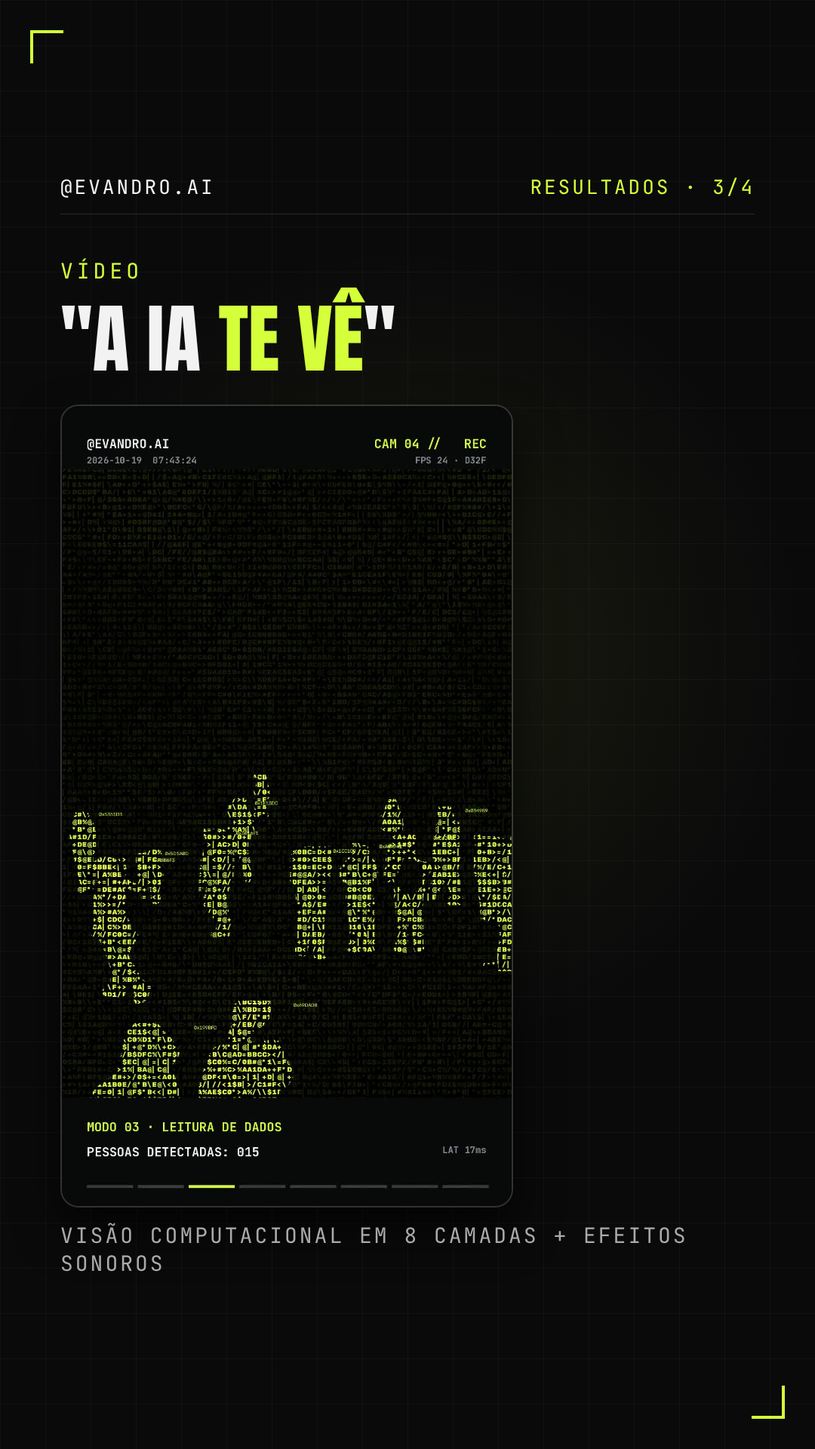
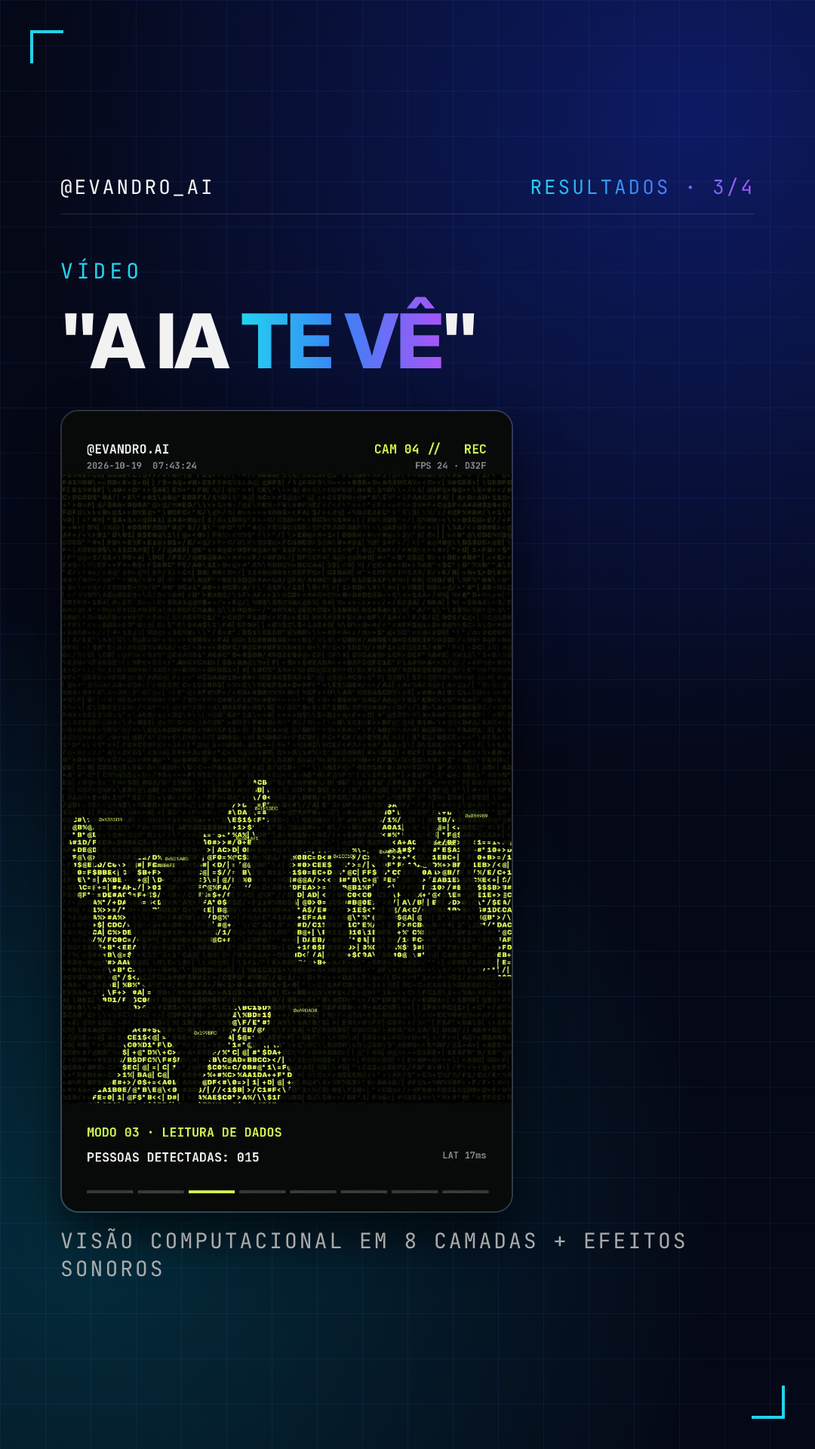
Identidade nova (estilo futurista): landing, destaques e bio
Claude-Session: https://claude.ai/code/session_01FADPPXD1YfGLfkBSdMraC8

diff --git a/index.html b/index.html
@@ -3,217 +3,189 @@
 <head>
 <meta charset="utf-8">
 <meta name="viewport" content="width=device-width,initial-scale=1">
-<meta name="theme-color" content="#0A0A0B">
-<title>Evandro Dias · IA para negócios</title>
-<meta name="description" content="Atendente de IA no WhatsApp, conteúdo e sistemas com IA para negócios locais. Demonstração grátis e materiais gratuitos.">
-<meta property="og:title" content="Evandro Dias · IA que atende, vende e cria conteúdo">
-<meta property="og:description" content="Coloque IA para trabalhar no seu negócio. Demonstração grátis antes de pagar.">
+<meta name="theme-color" content="#050816">
+<title>Evandro Dias · Desenvolvedor de IA</title>
+<meta name="description" content="Agentes de IA no WhatsApp, automações e sistemas para negócios. Demonstração grátis com o seu negócio.">
+<meta property="og:title" content="Evandro Dias · Desenvolvedor de IA">
+<meta property="og:description" content="Seu WhatsApp respondendo cliente em segundos, até de madrugada.">
 <meta property="og:image" content="assets/evandro.jpg">
 <style>
-@font-face{font-family:A;src:url(assets/Anton.ttf);font-display:swap}
-@font-face{font-family:M;src:url(assets/Mono.ttf);font-display:swap}
 @font-face{font-family:I;src:url(assets/Inter.ttf);font-display:swap}
-@font-face{font-family:S;src:url(assets/Serif.woff2);font-display:swap}
-:root{--bg:#0A0A0B;--panel:#131316;--line:#ffffff1c;--g:#D4FF3A;--t:#F2F2F2;--mut:#9a9a9a;--r:#FF4D3D}
+@font-face{font-family:M;src:url(assets/Mono.ttf);font-display:swap}
+:root{--bg:#050816;--panel:#0b1226;--line:#1e3a8a55;--c:#22d3ee;--b:#3b82f6;--p:#a855f7;--t:#e8f0ff;--mut:#94a3b8}
 *{box-sizing:border-box;margin:0;padding:0}
 html{scroll-behavior:smooth}
-body{background:var(--bg);color:var(--t);font-family:I,system-ui,sans-serif;line-height:1.55;
- background-image:linear-gradient(#ffffff07 1px,transparent 1px),linear-gradient(90deg,#ffffff07 1px,transparent 1px);background-size:44px 44px}
-a{color:inherit}
-.w{max-width:620px;margin:0 auto;padding:0 18px}
-.g{color:var(--g)}.r{color:var(--r)}.S{font-family:S;font-style:italic;font-weight:400;text-transform:none}
-.k{font-family:M;font-size:12px;letter-spacing:3px;color:var(--g);text-transform:uppercase}
-.num{font-family:M;font-size:12px;color:var(--mut);letter-spacing:2px}
-h1,h2,h3{font-family:A;font-weight:400;text-transform:uppercase;line-height:.95}
-h1{font-size:clamp(40px,11vw,66px)}h2{font-size:clamp(32px,8.5vw,46px);margin:10px 0 18px}h3{font-size:26px}
-p.l{color:#cfcfcf;font-size:17px}
-header.top{position:sticky;top:0;z-index:9;background:#0A0A0Bdd;backdrop-filter:blur(10px);border-bottom:1px solid var(--line)}
-header.top .w{display:flex;justify-content:space-between;align-items:center;padding:12px 18px}
-header.top b{font-family:M;font-size:12px;letter-spacing:3px}
-.mini{background:var(--g);color:#000;font-family:A;font-size:15px;padding:8px 14px;border-radius:10px;text-decoration:none;text-transform:uppercase}
-.marq{overflow:hidden;border-bottom:1px solid var(--line);white-space:nowrap}
-.marq div{display:inline-block;padding:12px 0;animation:mq 26s linear infinite;font-family:M;font-size:12px;letter-spacing:2px;color:#bbb}
-.marq span{margin:0 18px}.marq span::before{content:"◆ ";color:var(--g)}
-@keyframes mq{to{transform:translateX(-50%)}}
-@media (prefers-reduced-motion:reduce){.marq div{animation:none}}
-section{padding:52px 0;border-bottom:1px solid var(--line)}
-.hero{padding:40px 0 48px}
-.av{width:96px;height:96px;border-radius:50%;border:3px solid var(--g);object-fit:cover;box-shadow:0 0 40px rgba(212,255,58,.25)}
-.who{display:flex;gap:14px;align-items:center;margin-bottom:22px}
-.who b{display:block}.who span{color:var(--mut);font-size:14px}
-.btn{display:flex;align-items:center;justify-content:center;gap:10px;width:100%;background:var(--g);color:#0A0A0B;font-family:A;font-size:21px;letter-spacing:.5px;text-transform:uppercase;padding:17px 20px;border-radius:14px;text-decoration:none;margin-top:14px;transition:transform .15s}
-.btn:active{transform:scale(.98)}
-.btn.o{background:transparent;color:var(--t);border:1.5px solid #ffffff33;font-size:18px}
-.note{text-align:center;font-family:M;font-size:11px;color:var(--mut);letter-spacing:1px;margin-top:10px}
-ul.x,ul.c{list-style:none;margin-top:8px}
-ul.x li,ul.c li{padding:13px 0 13px 34px;border-bottom:1px solid var(--line);position:relative;font-size:16px}
-ul.x li::before{content:"✕";position:absolute;left:4px;color:var(--r);font-family:M}
-ul.c li::before{content:"✓";position:absolute;left:4px;color:var(--g);font-family:M}
-.quote{border-left:3px solid var(--g);padding:6px 0 6px 18px;margin:22px 0;font-size:22px}
-.pill{background:var(--panel);border:1px solid var(--line);border-radius:20px;padding:24px;margin-top:14px}
-.pill .tag{font-family:M;font-size:12px;letter-spacing:2px;color:var(--g)}
-.pill h3{margin:8px 0 10px}
-.pill p{color:#bdbdbd}
-.price{display:inline-block;margin-top:14px;font-family:M;font-size:13px;color:#0A0A0B;background:var(--g);padding:5px 11px;border-radius:6px}
-.obj{background:var(--panel);border:1px solid var(--line);border-radius:18px;padding:20px;margin-top:12px}
-.obj b{display:block;font-size:18px;margin-bottom:6px}.obj b::before{content:"“";color:var(--g);font-family:A;margin-right:4px}
-.obj p{color:#bdbdbd}
-.steps li{list-style:none;display:flex;gap:16px;padding:16px 0;border-bottom:1px solid var(--line)}
-.steps b.n{font-family:A;font-size:30px;color:var(--g);min-width:38px;line-height:1}
-.shots{display:flex;gap:10px;overflow-x:auto;scroll-snap-type:x mandatory;padding-bottom:6px}
-.shots img{height:280px;border-radius:14px;border:1px solid var(--line);scroll-snap-align:start}
-.card{background:var(--panel);border:1px solid var(--line);border-radius:16px;padding:16px;margin-top:10px;display:flex;gap:14px;align-items:center;text-decoration:none}
-.card .ic{flex:0 0 46px;height:46px;border-radius:12px;background:#1d1d22;display:flex;align-items:center;justify-content:center;font-size:22px}
-.card b{display:block;font-size:16px}.card span{color:var(--mut);font-size:13px}
-.card .go{margin-left:auto;font-family:M;color:var(--g)}
-.offer{background:var(--panel);border:2px solid var(--g);border-radius:24px;padding:30px 22px;text-align:center}
-.offer .big{font-family:A;font-size:64px;line-height:1;margin:8px 0}
-.ab{display:grid;grid-template-columns:1fr 1fr;gap:10px;margin-top:16px}
-.ab div{border-radius:16px;padding:18px;border:1px solid var(--line)}
-.ab .a{background:#1a1112;border-color:#FF4D3D55}.ab .b{background:#141a0c;border-color:#D4FF3A55}
-.ab h3{font-size:22px;margin-bottom:8px}.ab p{font-size:14px;color:#ccc}
-details{border-bottom:1px solid var(--line);padding:16px 0}
+body{background:var(--bg);color:var(--t);font-family:I,system-ui,sans-serif;line-height:1.55;overflow-x:hidden}
+a{color:inherit;text-decoration:none}
+.glow{position:fixed;inset:0;pointer-events:none;background:radial-gradient(circle at 85% 5%,#1e40ff44,transparent 40%),radial-gradient(circle at 5% 60%,#00e5ff22,transparent 40%),radial-gradient(circle at 90% 95%,#a855f722,transparent 40%);z-index:0}
+.grid{position:fixed;inset:0;pointer-events:none;background-image:linear-gradient(#3b82f614 1px,transparent 1px),linear-gradient(90deg,#3b82f614 1px,transparent 1px);background-size:34px 34px;z-index:0}
+.w{position:relative;z-index:1;max-width:1040px;margin:0 auto;padding:0 20px}
+.grad{background:linear-gradient(90deg,var(--c),var(--b),var(--p));-webkit-background-clip:text;background-clip:text;color:transparent}
+.lab{font-family:M;font-size:13px;color:var(--c)}
+h1{font-size:clamp(38px,8vw,72px);font-weight:800;line-height:1.04;letter-spacing:-1.5px}
+h2{font-size:clamp(28px,5.5vw,44px);font-weight:800;line-height:1.08;letter-spacing:-1px;margin:8px 0 18px}
+h3{font-size:19px;font-weight:700}
+p.l{color:var(--mut);font-size:17px;max-width:600px}
+nav{position:sticky;top:0;z-index:5;background:#050816cc;backdrop-filter:blur(12px);border-bottom:1px solid var(--line)}
+nav .w{display:flex;justify-content:space-between;align-items:center;padding:14px 20px}
+nav b{font-family:M;font-size:14px;color:#7dd3fc;font-weight:400}
+nav .links{display:flex;gap:22px;font-size:14px;color:var(--mut)}
+nav .links a:hover{color:var(--t)}
+@media(max-width:720px){nav .links{display:none}}
+.cta-sm{font-family:M;font-size:12px;color:#fff;padding:8px 14px;border-radius:10px;background:linear-gradient(90deg,#06b6d4,#3b82f6)}
+section{padding:72px 0;border-bottom:1px solid var(--line)}
+.hero{padding:64px 0 72px;display:grid;grid-template-columns:1.3fr .7fr;gap:40px;align-items:center}
+@media(max-width:820px){.hero{grid-template-columns:1fr;padding-top:40px}.hero .pic{order:-1}}
+.av{width:100%;max-width:300px;aspect-ratio:1;border-radius:28px;object-fit:cover;border:2px solid var(--c);box-shadow:0 0 60px #22d3ee55}
+@media(max-width:820px){.av{max-width:110px;border-radius:24px}}
+.tags{display:flex;flex-wrap:wrap;gap:8px;margin:22px 0}
+.tags b{font-family:M;font-weight:400;font-size:12px;padding:7px 12px;border:1px solid #22d3ee55;border-radius:999px;color:#a5f3fc;background:#0b1a33aa}
+.btns{display:flex;gap:12px;flex-wrap:wrap;margin-top:8px}
+.btn{display:inline-flex;align-items:center;justify-content:center;gap:8px;padding:16px 26px;border-radius:14px;font-weight:700;font-size:16px;transition:transform .15s,box-shadow .15s}
+.btn:hover{transform:translateY(-2px)}
+.b1{background:linear-gradient(90deg,#06b6d4,#3b82f6);color:#fff;box-shadow:0 12px 40px #3b82f655}
+.b2{border:1px solid #334155;color:#cbd5e1}
+@media(max-width:560px){.btn{width:100%}}
+.stats{display:grid;grid-template-columns:repeat(4,1fr);gap:12px;margin-top:34px}
+@media(max-width:720px){.stats{grid-template-columns:1fr 1fr}}
+.stat{background:#0b1226cc;border:1px solid var(--line);border-radius:16px;padding:18px;text-align:center}
+.stat b{display:block;font-size:28px;font-weight:800}
+.stat span{font-family:M;font-size:11px;color:#64748b;letter-spacing:1px}
+.cards{display:grid;grid-template-columns:repeat(3,1fr);gap:14px}
+@media(max-width:820px){.cards{grid-template-columns:1fr}}
+.card{background:linear-gradient(180deg,#0b1226,#081022);border:1px solid var(--line);border-radius:20px;padding:24px;position:relative;overflow:hidden}
+.card::after{content:"";position:absolute;inset:0;border-radius:20px;padding:1px;background:linear-gradient(135deg,#22d3ee55,transparent 40%,#a855f755);-webkit-mask:linear-gradient(#000 0 0) content-box,linear-gradient(#000 0 0);-webkit-mask-composite:xor;mask-composite:exclude;pointer-events:none}
+.card .ic{font-size:26px;margin-bottom:14px}
+.card p{color:var(--mut);margin-top:8px;font-size:15px}
+.card ul{list-style:none;margin-top:12px}
+.card li{font-size:14px;color:#cbd5e1;padding:6px 0 6px 20px;position:relative}
+.card li::before{content:"›";position:absolute;left:4px;color:var(--c);font-family:M}
+.price{display:inline-block;margin-top:14px;font-family:M;font-size:12px;color:#a5f3fc;border:1px solid #22d3ee66;padding:5px 10px;border-radius:8px}
+.proj{display:grid;grid-template-columns:1fr 1fr;gap:14px}
+@media(max-width:720px){.proj{grid-template-columns:1fr}}
+.proj .card .k{font-family:M;font-size:11px;color:var(--c);letter-spacing:1px}
+.steps{display:grid;grid-template-columns:repeat(3,1fr);gap:14px;counter-reset:s}
+@media(max-width:720px){.steps{grid-template-columns:1fr}}
+.steps .card::before{counter-increment:s;content:"0" counter(s);font-family:M;color:var(--c);font-size:13px;display:block;margin-bottom:10px}
+.arsenal{display:flex;flex-wrap:wrap;gap:10px}
+.arsenal span{font-family:M;font-size:13px;padding:10px 14px;border-radius:12px;background:#0b1226;border:1px solid var(--line);color:#cbd5e1}
+.free a{display:flex;gap:14px;align-items:center;padding:16px;border-radius:16px;background:#0b1226;border:1px solid var(--line);margin-top:10px;transition:border-color .15s}
+.free a:hover{border-color:#22d3ee88}
+.free .ic{font-size:22px}.free a b{display:block}.free a span{color:var(--mut);font-size:14px}.free .go{margin-left:auto;font-family:M;color:var(--c)}
+details{border-bottom:1px solid var(--line);padding:18px 0}
 summary{cursor:pointer;font-weight:600;list-style:none;font-size:17px}
-summary::after{content:"+";float:right;color:var(--g);font-family:M}details[open] summary::after{content:"–"}
-details p{color:#bdbdbd;margin-top:8px}
-footer{padding:34px 0 60px;text-align:center;color:var(--mut);font-size:12px}
+summary::after{content:"+";float:right;color:var(--c);font-family:M}details[open] summary::after{content:"–"}
+details p{color:var(--mut);margin-top:8px}
+.final{text-align:center}
+.final .card{max-width:640px;margin:0 auto;padding:40px 24px}
+footer{position:relative;z-index:1;padding:36px 0 60px;text-align:center;color:#64748b;font-size:12px;font-family:M}
+.reveal{opacity:0;transform:translateY(18px);transition:opacity .6s,transform .6s}
+.reveal.on{opacity:1;transform:none}
+@media (prefers-reduced-motion:reduce){.reveal{opacity:1;transform:none;transition:none}}
 </style>
 </head>
 <body>
-<header class="top"><div class="w"><b>EVANDRO DIAS</b><a class="mini wa" href="#">Falar comigo</a></div></header>
-<div class="marq"><div><span>ATENDENTE DE IA NO WHATSAPP</span><span>CLAUDE · CHATGPT</span><span>AUTOMAÇÕES</span><span>SISTEMAS SOB MEDIDA</span><span>REELS COM IA</span><span>VÍDEOS MOTION</span><span>SITES E CARDÁPIOS</span><span>IA DE LIGAÇÃO</span><span>ATENDENTE DE IA NO WHATSAPP</span><span>CLAUDE · CHATGPT</span><span>AUTOMAÇÕES</span><span>SISTEMAS SOB MEDIDA</span><span>REELS COM IA</span><span>VÍDEOS MOTION</span><span>SITES E CARDÁPIOS</span><span>IA DE LIGAÇÃO</span></div></div>
+<div class="glow"></div><div class="grid"></div>
+
+<nav><div class="w"><b>&lt;evandro.dias /&gt;</b><div class="links"><a href="#servicos">Serviços</a><a href="#projetos">Projetos</a><a href="#como">Como funciona</a><a href="#gratis">Grátis</a></div><a class="cta-sm wa" href="#">Falar comigo</a></div></nav>
 
 <div class="w">
-<!-- 1. HERO -->
-<section class="hero">
- <div class="who"><img class="av" src="assets/evandro.jpg" alt="Foto de Evandro Dias"><div><b>Evandro Dias</b><span>Dono da Amepis · IA aplicada em negócios reais</span></div></div>
- <div class="k">Para negócios que vivem de WhatsApp e Instagram</div>
- <h1 style="margin-top:12px">Seu negócio <span class="g">atendendo</span>, vendendo e postando <span class="S g">no automático</span></h1>
- <p class="l" style="margin-top:16px">Eu coloco inteligência artificial pra responder seus clientes na hora, criar seu conteúdo e organizar sua operação, sem você precisar entender de tecnologia.</p>
- <a class="btn wa" href="#">Quero uma demonstração grátis</a>
- <a class="btn o" href="#gratis">Baixar materiais grátis</a>
- <div class="note">Você vê funcionando com o seu negócio antes de pagar qualquer coisa</div>
-</section>
-
-<!-- 2. PROBLEMA -->
-<section>
- <div class="num">01 // O PROBLEMA</div>
- <h2>Enquanto você <span class="r">atende</span>, o cliente <span class="r">desiste</span></h2>
- <ul class="x">
-  <li>Mensagem que fica horas sem resposta e cliente que fecha com o concorrente</li>
-  <li>Você no balcão, no atendimento e ainda tendo que postar no Instagram</li>
-  <li>Já testou "uma IA" e ela respondeu qualquer coisa pro cliente</li>
-  <li>Paga ferramenta que ninguém configurou direito</li>
- </ul>
- <p class="l" style="margin-top:20px">O problema não é a IA. É ninguém ter montado ela <b>do jeito do seu negócio</b>.</p>
- <a class="btn wa" href="#">Quero resolver isso</a>
-</section>
-
-<!-- 3. HISTÓRIA -->
-<section>
- <div class="num">02 // DE ONDE EU VENHO</div>
- <h2>Eu testo <span class="g">no meu</span> negócio primeiro</h2>
- <p class="l">Sou dono da <b>Amepis</b>, loja de EPI. Antes de oferecer qualquer coisa, eu uso no meu próprio negócio: IA que liga pra empresas e faz prospecção, conteúdo feito com IA e atendimento automático.</p>
- <div class="quote">A IA não substitui você. Ela faz o que <span class="g">te faz perder venda</span> por falta de tempo.</div>
- <p class="l">Hoje eu monto a mesma coisa pra outros negócios: barbearias, restaurantes, lojas, prestadores de serviço.</p>
-</section>
-
-<!-- 4. O QUE EU FAÇO -->
-<section id="servicos">
- <div class="num">03 // O QUE EU FAÇO</div>
- <h2>Três <span class="g">frentes</span></h2>
- <div class="pill"><div class="tag">ATENDIMENTO</div><h3>Atendente de IA no WhatsApp</h3>
-  <ul class="c"><li>Responde na hora, 24 horas por dia</li><li>Agenda, tira dúvidas e passa preços</li><li>Só fala o que você aprovou</li><li>Te chama quando precisa de um humano</li></ul>
-  <span class="price">A PARTIR DE R$ 997</span></div>
- <div class="pill"><div class="tag">CONTEÚDO</div><h3>Reels, artes e vídeos com IA</h3>
-  <ul class="c"><li>Conteúdo do seu negócio todo mês</li><li>Vídeos animados no estilo dos meus Reels</li><li>Você não precisa gravar nem editar</li></ul></div>
- <div class="pill"><div class="tag">OPERAÇÃO</div><h3>Sistemas, sites e automações</h3>
-  <ul class="c"><li>Sites e cardápios digitais</li><li>Sistemas sob medida (estoque, pedidos, agenda)</li><li>Automações que ligam tudo ao seu WhatsApp</li></ul></div>
- <a class="btn wa" href="#">Ver como fica no meu negócio</a>
-</section>
-
-<!-- 5. TRABALHOS -->
-<section>
- <div class="num">04 // FEITO COM IA</div>
- <h2>Alguns <span class="g">trabalhos</span></h2>
- <div class="shots"><img src="assets/m9.3.jpg" alt="Reel animado escrito em código"><img src="assets/barb.jpg" alt="Carrossel para barbearia"><img src="assets/m15.6.jpg" alt="Reel animado"><img src="assets/cv.jpg" alt="Vídeo de visão computacional"><img src="assets/m47.8.jpg" alt="Reel animado TREMA"></div>
- <p class="note" style="text-align:left">Arraste pro lado →</p>
-</section>
-
-<!-- 6. OBJEÇÕES -->
-<section>
- <div class="num">05 // ANTES QUE VOCÊ PERGUNTE</div>
- <h2>"Mas e <span class="g">se</span>…"</h2>
- <div class="obj"><b>Eu não entendo nada de tecnologia</b><p>Nem precisa. Eu configuro, testo e te entrego funcionando. Você só aprova as respostas.</p></div>
- <div class="obj"><b>Meu negócio é pequeno demais</b><p>É justamente o pequeno que mais perde cliente por demora. Quem atende sozinho é quem mais ganha com isso.</p></div>
- <div class="obj"><b>E se a IA falar besteira?</b><p>Ela só usa as informações que você aprovar e passa pra você quando não souber ou o cliente pedir uma pessoa. Antes de ligar, testamos juntos.</p></div>
-</section>
-
-<!-- 7. COMO FUNCIONA -->
-<section>
- <div class="num">06 // COMO FUNCIONA</div>
- <h2>3 <span class="g">passos</span></h2>
- <ul class="steps">
-  <li><b class="n">1</b><div><b>Conversa de 15 minutos</b><br><span style="color:var(--mut)">Entendo seu negócio e onde você perde cliente.</span></div></li>
-  <li><b class="n">2</b><div><b>Demonstração grátis</b><br><span style="color:var(--mut)">Você vê a IA funcionando com o SEU negócio antes de pagar.</span></div></li>
-  <li><b class="n">3</b><div><b>Implantação e acompanhamento</b><br><span style="color:var(--mut)">Coloco no ar, ajusto e acompanho os resultados com você.</span></div></li>
- </ul>
-</section>
-
-<!-- 8. OFERTA -->
-<section id="oferta">
- <div class="offer">
-  <div class="k">Atendente de IA no WhatsApp</div>
-  <div style="color:var(--mut);margin-top:14px">a partir de</div>
-  <div class="big">R$ <span class="g">997</span></div>
-  <div style="color:var(--mut)">implantação · valor final depende do seu negócio</div>
-  <ul class="c" style="text-align:left;margin-top:18px"><li>Demonstração grátis antes de fechar</li><li>Configurado com as informações do seu negócio</li><li>Testes juntos antes de ligar</li><li>Ajustes na primeira semana inclusos</li></ul>
-  <a class="btn wa" href="#">Quero minha demonstração</a>
+<header class="hero">
+ <div>
+  <div class="lab">// olá, eu sou o Evandro Dias</div>
+  <h1 style="margin-top:12px">Seu WhatsApp respondendo cliente <span class="grad">em segundos</span>, até de madrugada.</h1>
+  <p class="l" style="margin-top:18px">Sou desenvolvedor de IA. Crio agentes no WhatsApp, automações e sistemas que fazem negócios atenderem e venderem sem depender de alguém online o tempo todo.</p>
+  <div class="tags"><b>Agentes de IA</b><b>WhatsApp</b><b>Automação</b><b>Sistemas</b><b>Sites</b></div>
+  <div class="btns"><a class="btn b1 wa" href="#">Demonstração grátis →</a><a class="btn b2" href="#projetos">Ver projetos</a></div>
  </div>
-</section>
-
-<!-- 9. GRÁTIS -->
-<section id="gratis">
- <div class="num">07 // MATERIAIS GRÁTIS</div>
- <h2>Comece <span class="g">sozinho</span>, de graça</h2>
- <a class="card" href="gratis/kit-ia-negocios-locais.pdf"><div class="ic">💬</div><div><b>Kit IA para Negócios Locais</b><span>Atendente de WhatsApp pronto + plano de 30 dias</span></div><div class="go">→</div></a>
- <a class="card" href="gratis/50-prompts-ia-negocios.pdf"><div class="ic">⚡</div><div><b>50 Prompts para o seu negócio</b><span>Artes, fotos, vídeos, legendas e atendimento</span></div><div class="go">→</div></a>
- <a class="card" href="gratis/manual-motion-com-ia.pdf"><div class="ic">🎬</div><div><b>Manual Motion com IA</b><span>Vídeos animados só conversando com o Claude</span></div><div class="go">→</div></a>
- <a class="card" href="gratis/template-estudio-motion.zip"><div class="ic">🧩</div><div><b>Template + skills do Claude</b><span>O projeto do vídeo "Esse vídeo foi escrito"</span></div><div class="go">→</div></a>
- <a class="card" href="gratis/guia-influencer-ia.pdf"><div class="ic">🧑🎤</div><div><b>Crie seu Influencer de IA</b><span>Do rosto ao primeiro dinheiro</span></div><div class="go">→</div></a>
-</section>
-
-<!-- 10. FAQ -->
-<section>
- <div class="num">08 // DÚVIDAS</div>
- <h2>Perguntas <span class="g">frequentes</span></h2>
- <details><summary>Funciona pro meu tipo de negócio?</summary><p>Se você atende clientes pelo WhatsApp ou pelo Instagram, sim: barbearia, clínica, loja, restaurante, oficina, prestador de serviço.</p></details>
- <details><summary>Quanto tempo leva pra ficar pronto?</summary><p>Depende do tamanho do seu negócio. Na conversa inicial eu te passo o prazo certinho.</p></details>
- <details><summary>Preciso trocar meu número de WhatsApp?</summary><p>Na conversa eu te explico as opções pro seu caso, incluindo usar o número que você já tem.</p></details>
- <details><summary>Tem mensalidade?</summary><p>O valor de implantação é a partir de R$ 997. Se houver custo mensal de ferramenta ou de acompanhamento, eu te mostro antes de fechar.</p></details>
- <details><summary>Os materiais são grátis mesmo?</summary><p>Sim. É só baixar aqui ou comentar a palavra que aparece nos meus Reels.</p></details>
-</section>
-
-<!-- 11. FECHAMENTO -->
-<section>
- <div class="num">09 // DAQUI A 3 MESES</div>
- <h2>Onde você <span class="g">quer estar?</span></h2>
- <div class="ab">
-  <div class="a"><h3 class="r">Cenário A</h3><p>Ainda respondendo tudo na mão, perdendo cliente de madrugada e sem tempo pra postar.</p></div>
-  <div class="b"><h3 class="g">Cenário B</h3><p>IA atendendo e agendando, conteúdo saindo toda semana e você cuidando do que importa.</p></div>
- </div>
- <a class="btn wa" href="#">Quero o cenário B</a>
- <div class="note">A conversa é grátis e sem compromisso</div>
-</section>
+ <div class="pic"><img class="av" src="assets/evandro.jpg" alt="Foto de Evandro Dias"></div>
+</header>
+<div class="stats reveal" style="margin-top:-30px;margin-bottom:60px">
+ <div class="stat"><b class="grad">24h</b><span>ATENDIMENTO</span></div>
+ <div class="stat"><b class="grad">&lt;10s</b><span>PRA RESPONDER</span></div>
+ <div class="stat"><b class="grad">0</b><span>CLIENTE ESQUECIDO</span></div>
+ <div class="stat"><b class="grad">R$ 997</b><span>A PARTIR DE</span></div>
+</div>
 </div>
 
-<footer class="w">Evandro Dias · <a href="https://instagram.com/evandro_ai">Instagram</a><br><br>Claude e ChatGPT são marcas de seus respectivos donos, sem vínculo com este serviço.</footer>
+<section><div class="w reveal">
+ <div class="lab">// o problema</div>
+ <h2>Cliente que espera, <span class="grad">compra do concorrente.</span></h2>
+ <p class="l">Mensagem sem resposta à noite, dúvida repetida o dia inteiro, orçamento esquecido. Não é falta de vontade: é falta de braço. É isso que a IA resolve.</p>
+</div></section>
+
+<section id="servicos"><div class="w">
+ <div class="lab reveal">// serviços</div>
+ <h2 class="reveal">O que eu <span class="grad">construo</span></h2>
+ <div class="cards">
+  <div class="card reveal"><div class="ic">💬</div><h3>Agente de IA no WhatsApp</h3><p>Atende, agenda, tira dúvidas e passa preços com as informações que você aprovar.</p><ul><li>Responde 24h</li><li>Passa pra você quando precisa de humano</li><li>Testado antes de ir pro ar</li></ul><span class="price">A PARTIR DE R$ 997</span></div>
+  <div class="card reveal"><div class="ic">⚙</div><h3>Automações</h3><p>Lembretes, confirmação de agendamento, pós-venda e cliente sumido, tudo rodando sozinho.</p><ul><li>Integra WhatsApp, planilhas e sistemas</li><li>Menos trabalho manual</li></ul></div>
+  <div class="card reveal"><div class="ic">🧩</div><h3>Sistemas e sites</h3><p>Sites, cardápios digitais e sistemas sob medida, ligados ao seu atendimento.</p><ul><li>Pedidos, estoque, agenda</li><li>Feito pro seu fluxo</li></ul></div>
+ </div>
+ <div class="btns reveal" style="margin-top:24px"><a class="btn b1 wa" href="#">Quero uma demonstração →</a></div>
+</div></section>
+
+<section id="projetos"><div class="w">
+ <div class="lab reveal">// projetos</div>
+ <h2 class="reveal">Já <span class="grad">entreguei</span></h2>
+ <div class="proj">
+  <div class="card reveal"><div class="k">SITE · RESTAURANTE</div><h3 style="margin-top:8px">Base Food</h3><p>Site com cardápio completo e pedido direto pelo canal próprio da hamburgueria, sem comissão de marketplace.</p></div>
+  <div class="card reveal"><div class="k">AGENTE · WHATSAPP</div><h3 style="margin-top:8px">Agenda no WhatsApp</h3><p>Agente que conversa com o cliente e marca horário sozinho pelo WhatsApp.</p></div>
+  <div class="card reveal"><div class="k">AUTOMAÇÃO · ATENDIMENTO</div><h3 style="margin-top:8px">Atendimento com IA + painel</h3><p>Atendimento automático no WhatsApp com painel para a equipe assumir as conversas quando precisa.</p></div>
+  <div class="card reveal"><div class="k">SITES · PRESTADORES</div><h3 style="margin-top:8px">Sites de eletricistas</h3><p>Sites de apresentação e orçamento para prestadores de serviço elétrico.</p></div>
+ </div>
+</div></section>
+
+<section id="como"><div class="w">
+ <div class="lab reveal">// como funciona</div>
+ <h2 class="reveal">Do papo ao <span class="grad">ar</span> em 3 passos</h2>
+ <div class="steps">
+  <div class="card reveal"><h3>Conversa de 15 min</h3><p>Entendo seu negócio e onde você perde cliente.</p></div>
+  <div class="card reveal"><h3>Demonstração grátis</h3><p>Você vê a IA funcionando com o SEU negócio antes de pagar.</p></div>
+  <div class="card reveal"><h3>Implantação</h3><p>Coloco no ar, testamos juntos e acompanho os resultados.</p></div>
+ </div>
+</div></section>
+
+<section><div class="w reveal">
+ <div class="lab">// arsenal</div>
+ <h2>Ferramentas que eu <span class="grad">uso</span></h2>
+ <div class="arsenal"><span>Claude</span><span>ChatGPT</span><span>WhatsApp</span><span>Automações</span><span>Next.js</span><span>Supabase</span><span>Python</span><span>APIs</span><span>Vídeo com IA</span></div>
+</div></section>
+
+<section id="gratis"><div class="w reveal free">
+ <div class="lab">// materiais grátis</div>
+ <h2>Comece <span class="grad">sozinho</span></h2>
+ <a href="gratis/kit-ia-negocios-locais.pdf"><div class="ic">💬</div><div><b>Kit IA para Negócios Locais</b><span>Atendente de WhatsApp pronto + plano de 30 dias</span></div><div class="go">→</div></a>
+ <a href="gratis/50-prompts-ia-negocios.pdf"><div class="ic">⚡</div><div><b>50 Prompts para o seu negócio</b><span>Artes, fotos, vídeos, legendas e atendimento</span></div><div class="go">→</div></a>
+ <a href="gratis/manual-motion-com-ia.pdf"><div class="ic">🎬</div><div><b>Manual Motion com IA</b><span>Vídeos animados só conversando com o Claude</span></div><div class="go">→</div></a>
+</div></section>
+
+<section><div class="w reveal">
+ <div class="lab">// dúvidas</div>
+ <h2>Perguntas <span class="grad">frequentes</span></h2>
+ <details><summary>Funciona pro meu negócio?</summary><p>Se você atende clientes pelo WhatsApp ou pelo Instagram, sim: barbearia, clínica, loja, restaurante, oficina, prestador de serviço.</p></details>
+ <details><summary>Preciso entender de tecnologia?</summary><p>Não. Eu configuro, testo e te entrego funcionando. Você só aprova as respostas.</p></details>
+ <details><summary>E se a IA falar besteira?</summary><p>Ela só usa as informações que você aprovar e passa pra você quando não souber ou o cliente pedir uma pessoa.</p></details>
+ <details><summary>Quanto custa?</summary><p>O agente no WhatsApp parte de R$ 997 de implantação. Se houver custo mensal de ferramenta, eu te mostro antes de fechar.</p></details>
+</div></section>
+
+<section class="final"><div class="w reveal">
+ <div class="card">
+  <div class="lab">// próximo passo</div>
+  <h2 style="margin-top:10px">Veja a IA atendendo <span class="grad">o seu negócio</span></h2>
+  <p class="l" style="margin:0 auto">Demonstração grátis, sem compromisso.</p>
+  <div class="btns" style="justify-content:center;margin-top:20px"><a class="btn b1 wa" href="#">Quero minha demonstração →</a></div>
+ </div>
+</div></section>
+
+<footer>© 2026 Evandro Dias · <a href="https://instagram.com/evandro_ai">Instagram</a><br>Claude e ChatGPT são marcas de seus respectivos donos.</footer>
 
 <script>
-// Número do WhatsApp (DDI + DDD + número, só dígitos)
 const WA='55NUMERO';
 const msg=encodeURIComponent('Oi Evandro! Vim pelo seu site e quero uma demonstração de IA no meu negócio.');
 document.querySelectorAll('.wa').forEach(a=>a.href=`https://wa.me/${WA}?text=${msg}`);
+const io=new IntersectionObserver(es=>es.forEach(e=>{if(e.isIntersecting){e.target.classList.add('on');io.unobserve(e.target)}}),{threshold:.12});
+document.querySelectorAll('.reveal').forEach(el=>io.observe(el));
 </script>
 </body>
 </html>

diff --git a/BIO.md b/BIO.md
@@ -1,0 +1,10 @@
+# Bio do Instagram
+
+**Nome:** Evandro Dias
+
+**Bio:**
+Desenvolvedor de IA para negócios 🤖
+Seu WhatsApp respondendo cliente em segundos, até de madrugada
+Demonstração grátis + manuais de IA 👇
+
+**Link:** https://foortech-cell.github.io/Evandro.ia/
